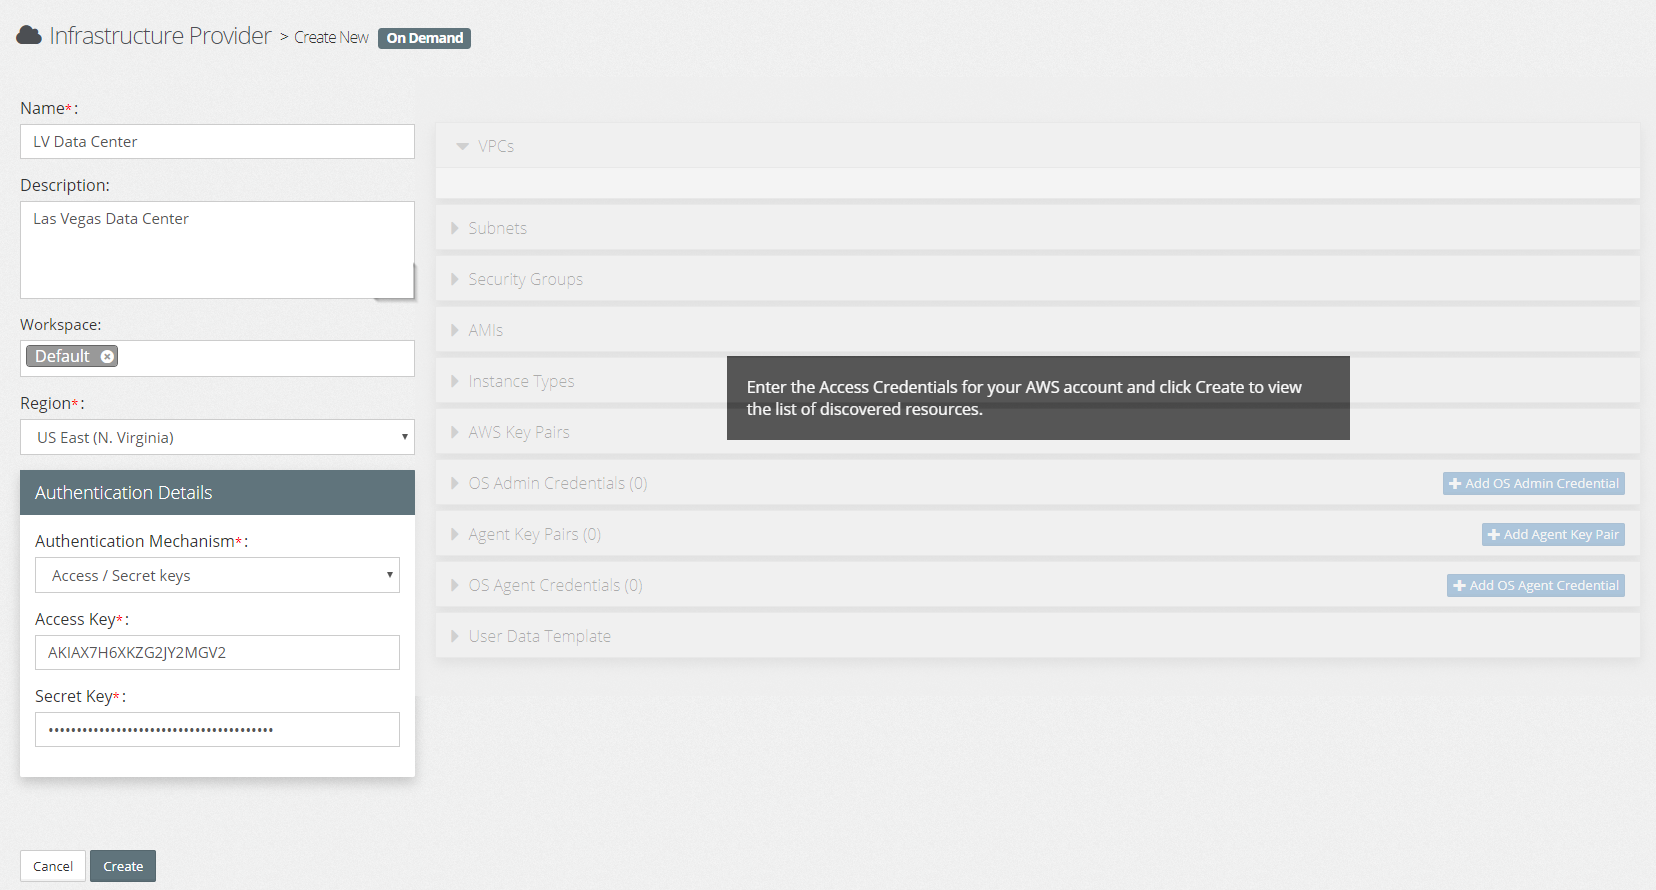
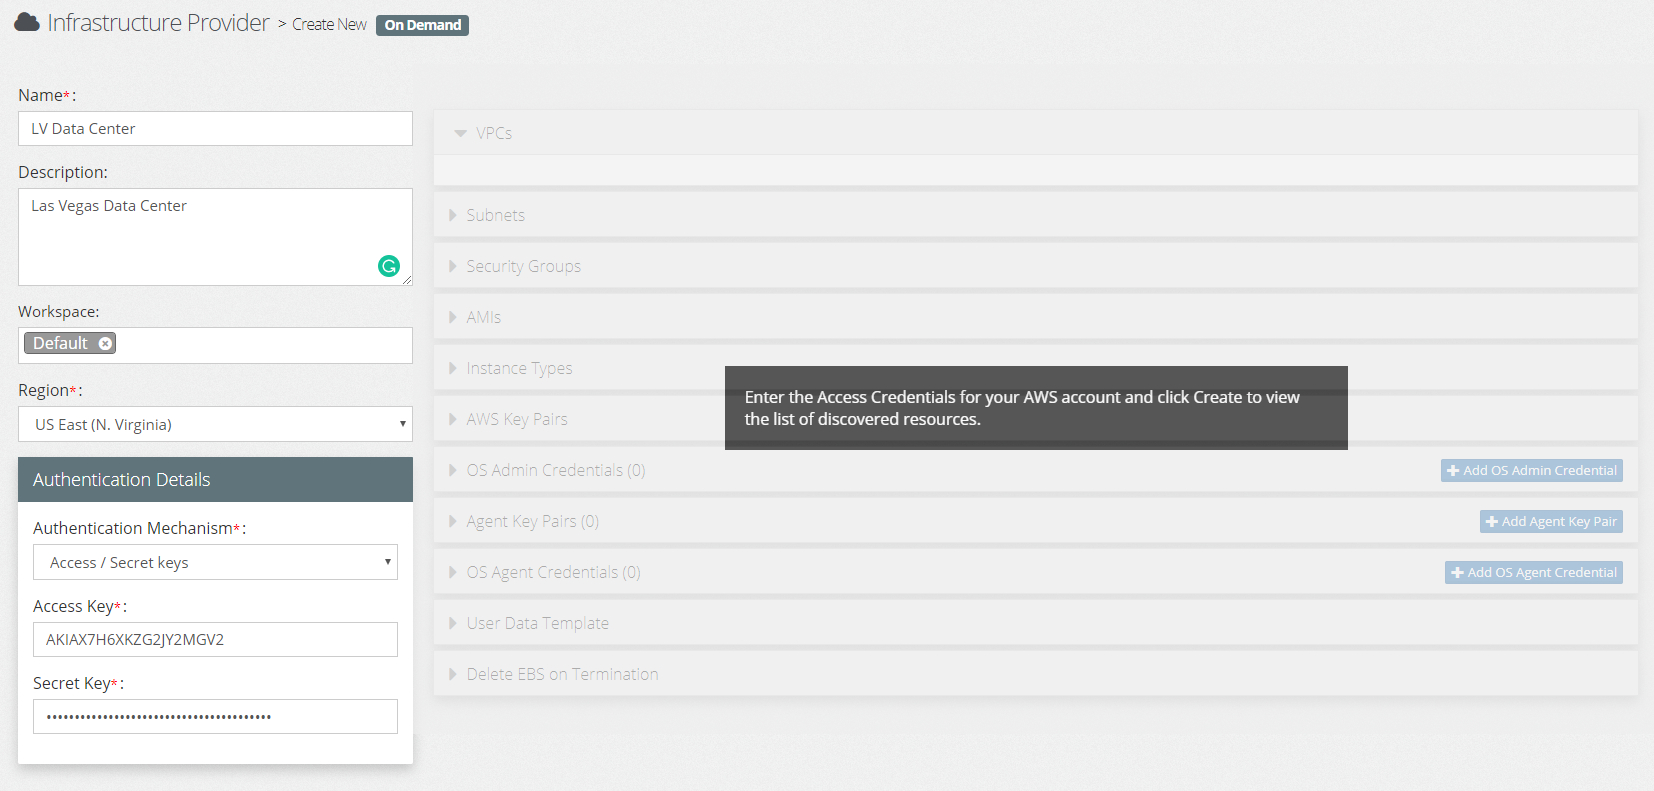
FC-XXXX-${Replace with your commit message and ticket Id}

diff --git a/platform/models/on-demand-aws/README.md b/platform/models/on-demand-aws/README.md
@@ -49,9 +49,20 @@ For each Compute Group defined within the Platform Blueprint we need to specify 
 
 * **Agent User** - The user on the target host, which MyST will run as.
 
+* **Spot Instance** - Amazon EC2 Spot Instances let you take advantage of unused EC2 capacity in the AWS cloud. Spot Instances are available at up to a 90% discount compared to On-Demand prices. You can use Spot Instances for various stateless, fault-tolerant, or flexible applications such as big data, containerized workloads, CI/CD, web servers, high-performance computing (HPC), and other test & development workloads.
+
 > The available AMIs, EC2 Instance Types, Security Groups, Agent Users and OS Users are configured as part of the AWS On-Demand Infrastructure. Where multiple options are available, then a drop-down box is provided to select the required option. Where only a single option is available, then this value will be automatically set.
 
-![](img/AwsModelComputeGroup.png)
+Below is the wizard when we select Spot Instance as false
+
+![](img/AwsModelComputeGroupSpotFalse.png)
+
+
+Below is the wizard when we select Spot Instance as True.
+
+Clicking Check Pricing button gives you the current running Bid price of required Spot Instance type at the moment.
+
+![](img/AwsModelComputeGroupSpotTrue.png)
 
 In addition, we can also specify whether we want to have a stand-alone admin server, in which case it will be created within its own compute group. MyST will default to what is specified in the Platform Blueprint.
 

diff --git a/infrastructure/providers/on-demand/aws/README.md b/infrastructure/providers/on-demand/aws/README.md
@@ -33,6 +33,9 @@ Click on create. Once you click on create you can see all the information like V
 * **OS Agent Credentials:**  The OS agent credentials is the set of credentials that MyST uses to connect to and execute jobs on the target hosts. Each Credential consists of a username and credential, which can be either a Key Pair or Password.
 * **User Data Template:** User Data Template holds the user data which will be run only once during the initial boot of the instance. This can be a set of instructions that has to be run on the instance. To know more about it go through
   * [User Data](infrastructure/providers/on-demand/aws/user-data/README.md)
+  
+  
+* **Delete EBS on Termination:** When an instance is terminated, Amazon Elastic Compute Cloud (Amazon EC2) uses the value of the DeleteOnTermination attribute for each attached EBS volume to determine whether to preserve or delete the volume when the instance is terminated. By default, the DeleteOnTermination attribute for the root volume of an instance is set to true, but it is set to false for all other volume types. To preserve the root volume when an instance is terminated, change the DeleteOnTermination attribute for the root volume to false.
 
     Once we have defined an OS Agent Credential, we can use it in one or more Hosts. 
 
